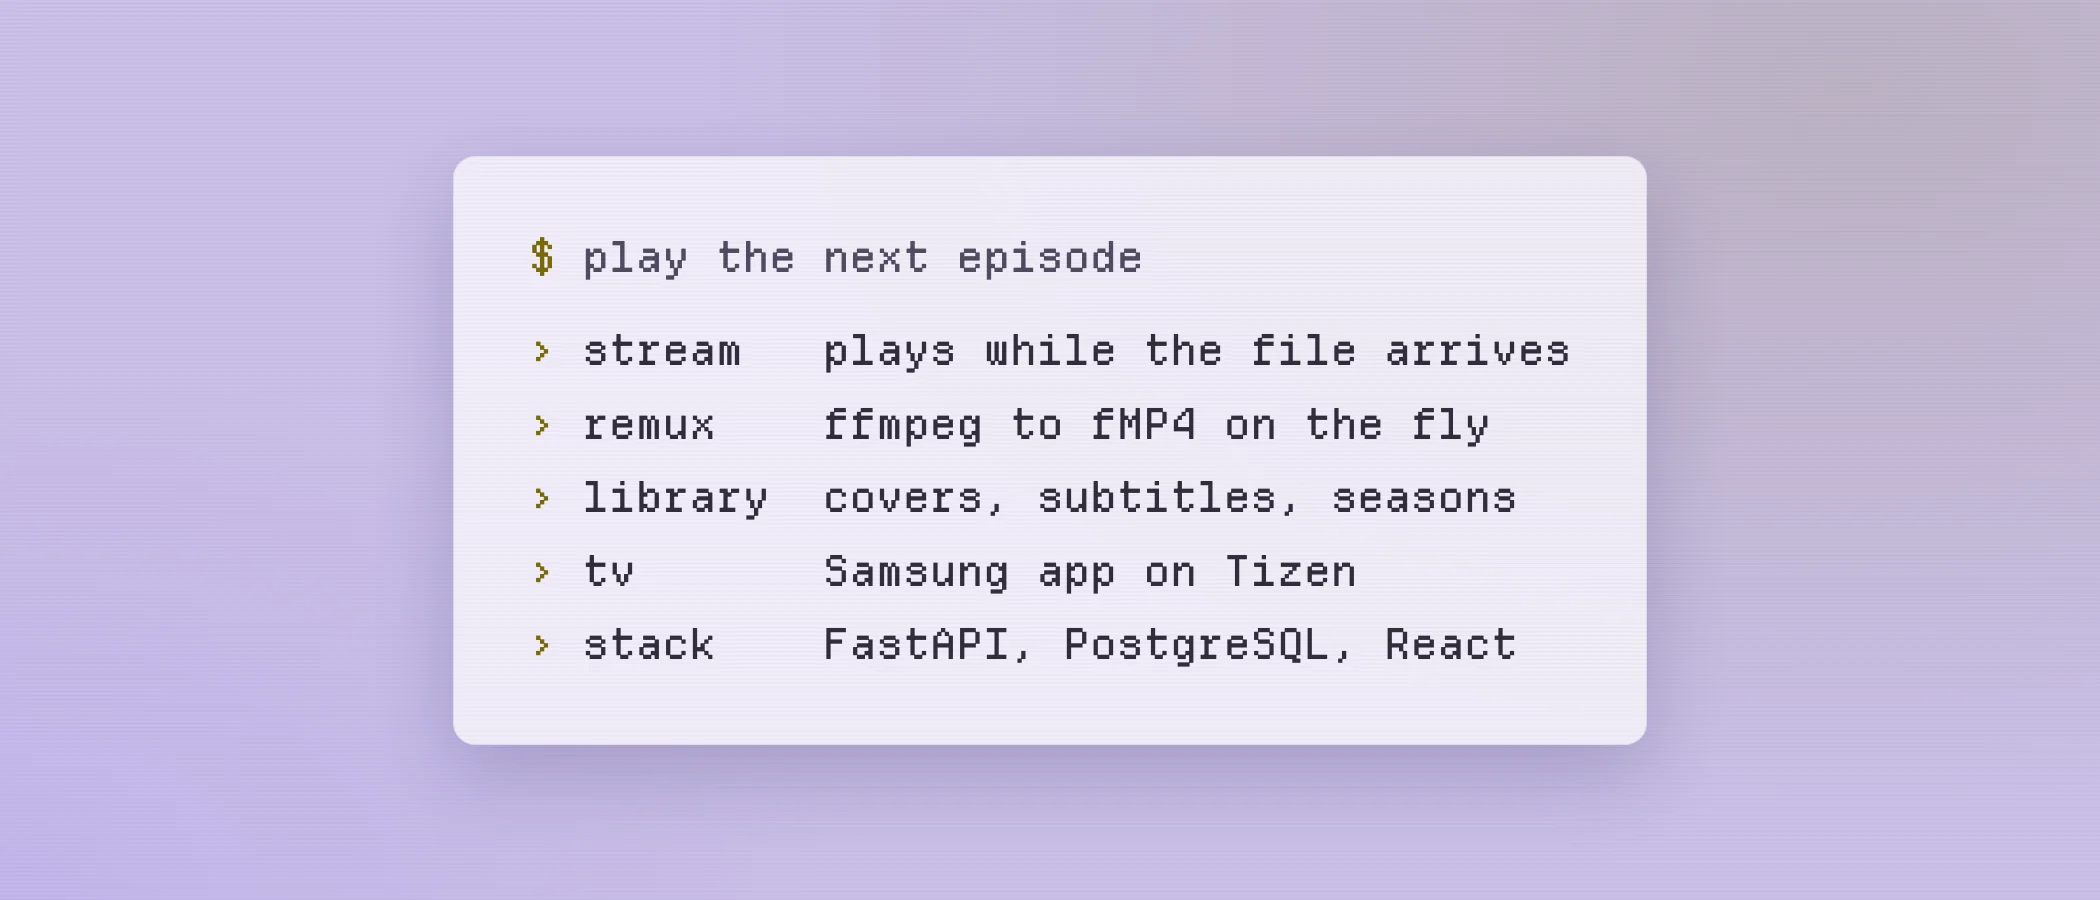
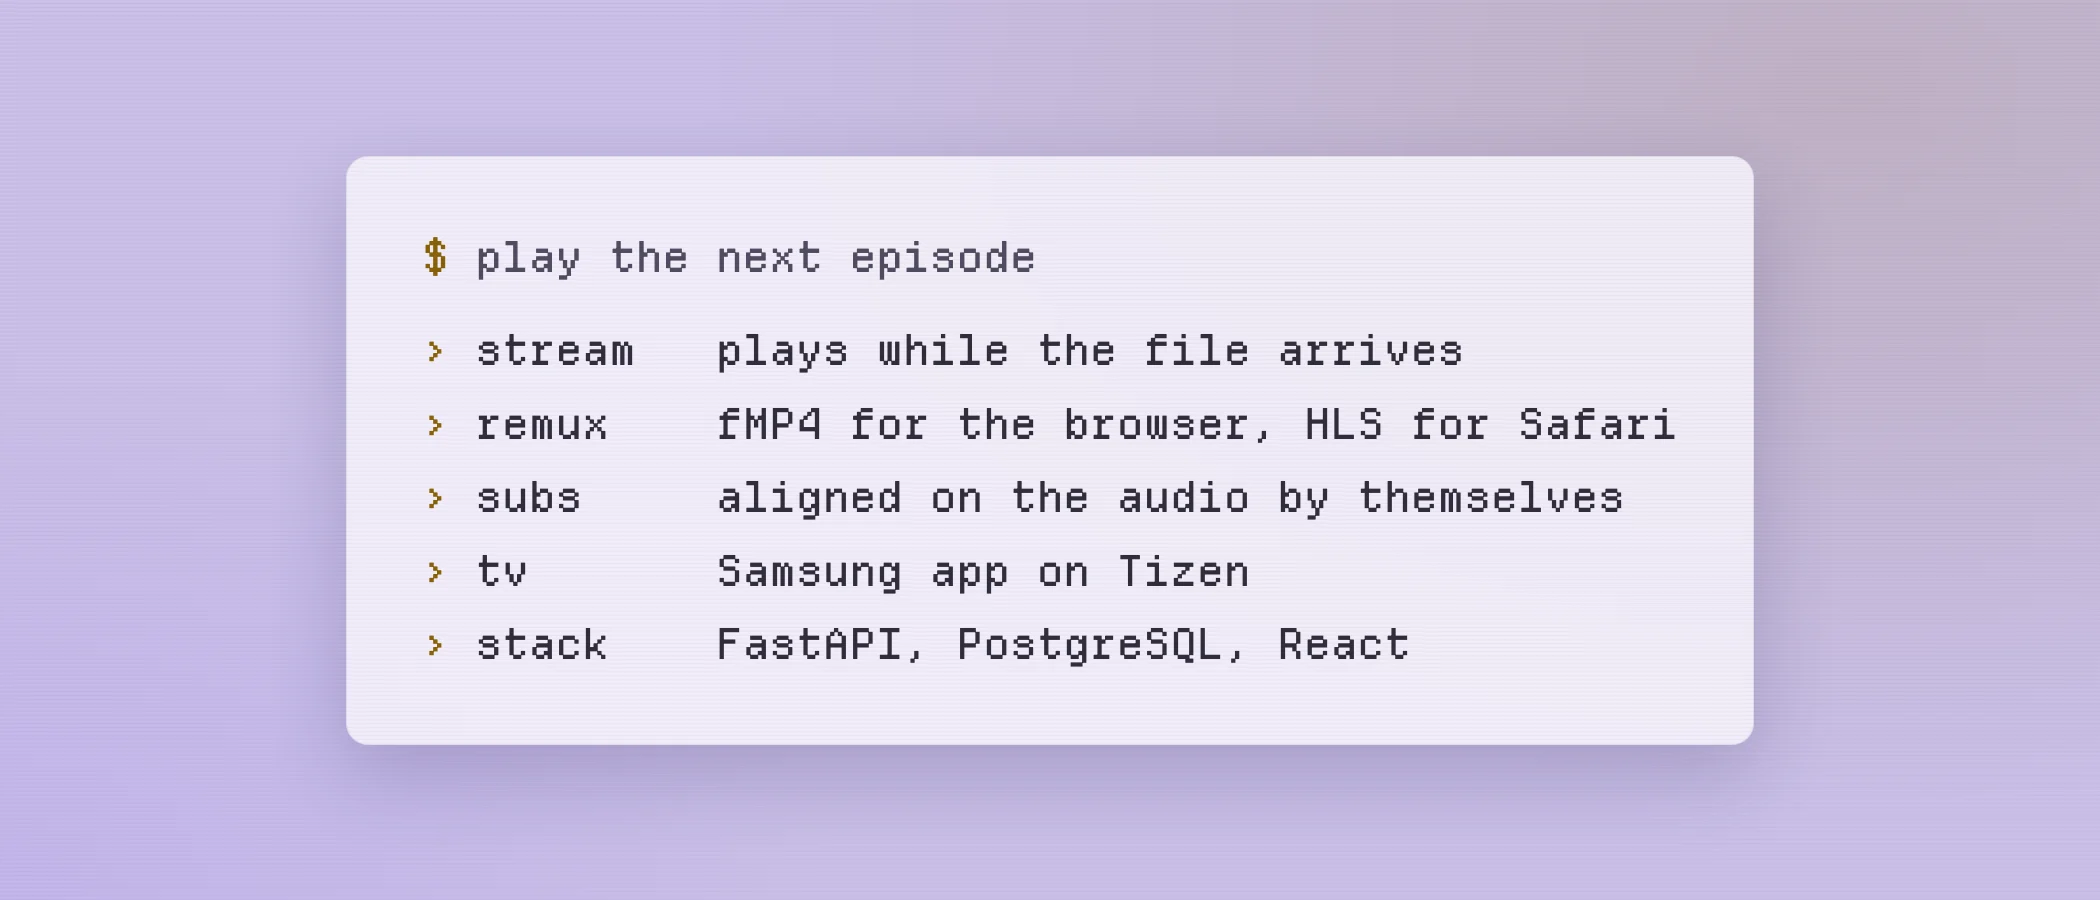
feat(projects): bring Media Hub up to HLS, subtitles and the TV splash

Changed region(s): [[0.1548, 0.1556, 0.8357, 0.84], [0.3405, 0.6222, 0.65, 0.6533], [0.5571, 0.3733, 0.7429, 0.4044]]

diff --git a/src/content/projects/media-hub/it.md b/src/content/projects/media-hub/it.md
@@ -14,9 +14,10 @@ why: "Il video parte mentre il file sta ancora arrivando: il motore prende i pez
 
 Il server di casa è un ThinkPad con Ubuntu. Media Hub è la piattaforma che ci gira sopra: una home da cui si aprono più app, su un backend unico. La prima è il media server, che ha preso il posto dello stack con CasaOS e Jellyfin.
 
-- Il video parte subito, anche se il file non è ancora tutto sul disco: ffmpeg lo rimpacchetta al volo in fMP4 per il browser, e quando il file è completo si passa a leggerlo da lì.
-- La libreria ha metadati, copertine, sottotitoli e voti, con le serie divise per stagione.
-- Un'app per la TV Samsung, su Tizen e installata in sideload: home per categorie, dettaglio e player nativo. Il codice arriva dal server a ogni deploy, senza reinstallarla.
-- Dal telefono funziona tutto nel browser.
+- Il video parte subito, anche se il file non è ancora tutto sul disco: ffmpeg lo rimpacchetta al volo in fMP4 per il browser, e quando il file è completo si passa a leggerlo da lì. Da Safari e da iPhone parte in HLS.
+- La libreria ha metadati, copertine, trailer e voti esterni, con le serie divise per stagione e quelle degli anime ricavate dalle date. Si esplora per anno e per genere, e di un titolo si possono tenere più versioni sul disco.
+- I sottotitoli scaricati si allineano da soli misurandoli sull'audio, si correggono a mano al decimo di secondo e passano all'episodio successivo.
+- Un'app per la TV Samsung, su Tizen e installata in sideload: home per categorie, dettaglio, player nativo con l'episodio successivo a fine puntata, e uno splash d'apertura al posto della schermata di caricamento. Il codice arriva dal server a ogni deploy, senza reinstallarla.
+- Il server rimonta da solo il disco dei media quando torna, e finché manca lo dichiara nel controllo di salute.
 
 Backend Python con FastAPI e PostgreSQL, frontend React, app TV in React sul player di Tizen.

diff --git a/src/content/projects/media-hub/en.md b/src/content/projects/media-hub/en.md
@@ -14,9 +14,10 @@ why: "The video starts while the file is still arriving: the engine fetches piec
 
 My home server is a ThinkPad running Ubuntu. Media Hub is the platform on top of it: a home screen that opens several apps, on a single backend. The first one is the media server, which replaced the CasaOS and Jellyfin stack.
 
-- The video starts right away, even when the file is not all on disk yet: ffmpeg remuxes it on the fly to fMP4 for the browser, and once the file is complete playback reads it from there.
-- The library has metadata, covers, subtitles and ratings, with series split by season.
-- A Samsung TV app, on Tizen and sideloaded: home by category, detail page and native player. Its code comes from the server on every deploy, with no reinstall.
-- On a phone everything works in the browser.
+- The video starts right away, even when the file is not all on disk yet: ffmpeg remuxes it on the fly to fMP4 for the browser, and once the file is complete playback reads it from there. From Safari and the iPhone it plays in HLS.
+- The library has metadata, covers, trailers and external ratings, with series split by season and anime seasons worked out from the air dates. You browse it by year and genre, and a title can keep several versions on disk.
+- Downloaded subtitles align themselves by being measured against the audio, can be adjusted by hand to a tenth of a second and carry over to the next episode.
+- A Samsung TV app, on Tizen and sideloaded: home by category, detail page, native player with the next episode at the end, and an opening splash instead of a loading screen. Its code comes from the server on every deploy, with no reinstall.
+- The server remounts the media disk on its own when it comes back, and reports it in the health check while it is missing.
 
 Python backend with FastAPI and PostgreSQL, React frontend, TV app in React on Tizen's player.
